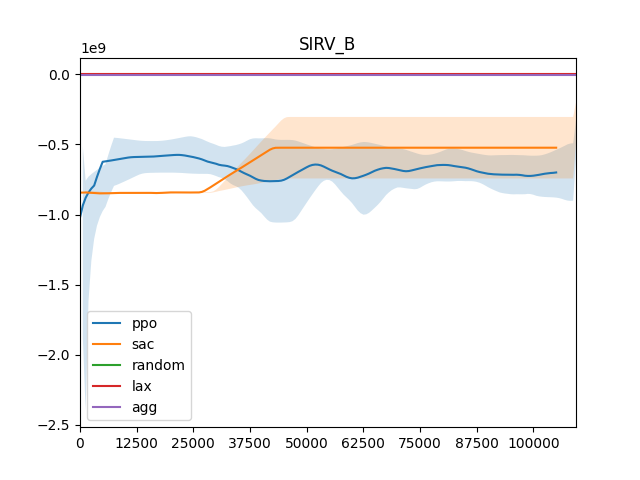
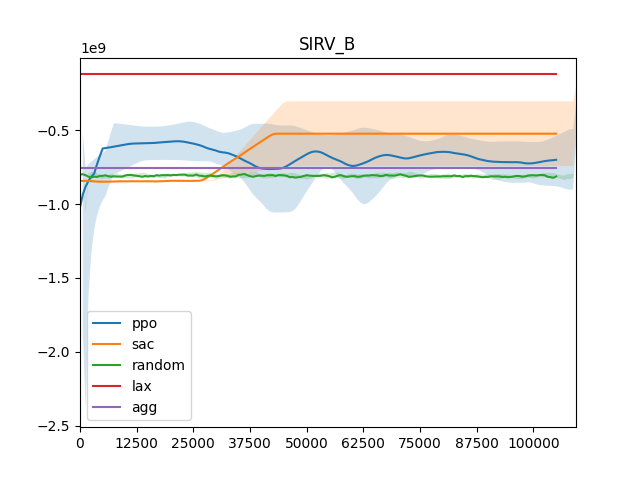
fixed bugs in calculating reward for baselines

diff --git a/plots.py b/plots.py
@@ -69,12 +69,14 @@ def merge_baselines(logs):
     # pprint.pprint(logs) 
     vals = [] 
     for l in logs: 
-        vals.append(np.load(l)) 
+        x = np.load(l) 
+        x = np.add.reduceat(x, np.arange(0, len(x), 365))[:CUT]
+        vals.append(x) 
     vals = np.array(vals) 
     val_means = np.array(vals).mean(axis=0)
     val_stds = np.array(vals).std(axis=0)
-    val_means = np.take(val_means, list(range(0, len(val_means), 500)))
-    val_stds = np.take(val_stds, list(range(0, len(val_stds), 500)))
+    # val_means = np.take(val_means, list(range(0, len(val_means), 500)))
+    # val_stds = np.take(val_stds, list(range(0, len(val_stds), 500)))
     print(val_means.shape) 
     print(val_stds.shape) 
 
@@ -114,7 +116,8 @@ def plot(log_dir, only_baselines=False):
                         alpha=0.2) 
             else: 
                 vals = np.load(logs[0]) 
-                vals = np.take(vals, list(range(0, len(vals), 500)))
+                # vals = np.take(vals, list(range(0, len(vals), 500)))
+                vals = np.add.reduceat(vals, np.arange(0, len(vals), 365))[:CUT]
                 vals = smooth(vals, box_pts=SMOOTH)
                 plt.plot(vals[SMOOTH:][:-SMOOTH], label=algo)
                 # print(vals.shape, "mean: ", np.mean(val_means)) 
